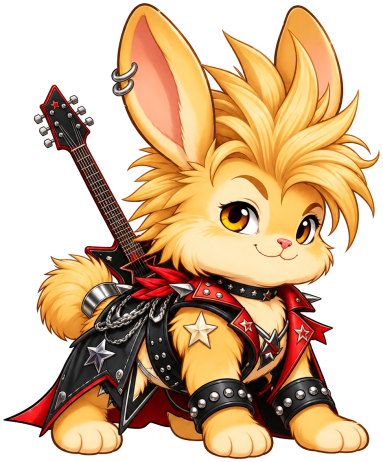
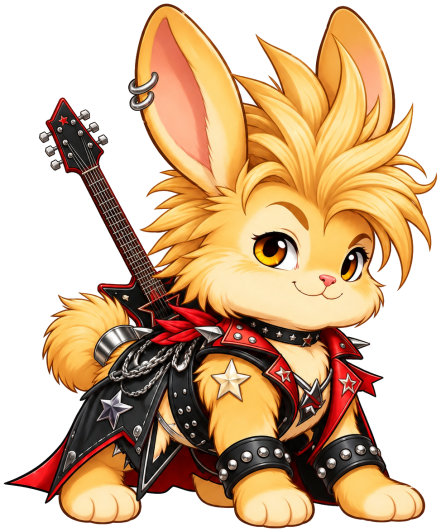
Retours iPhone (lot A1) : tailles, zoom, défi parent, fin des fêtes et découvertes
- Lapins évolués 20 % plus grands (pixels inchangés, dessinés à l'échelle) ;
  Roukette de base +15 %, Roukette évoluée recalculée sur cette taille.
- Zoom maximum 2,2 ; voile de la nurserie dérivé en 224 px pour rester net.
- Défi « Devenir parent d'un lapereau » ; plus de mention « corde à venir ».
- Suppression de la page Rendez-vous (fêtes du mois et petites découvertes)
  partout ; les souvenirs déjà gagnés restent dans l'album.

diff --git a/src/ui/GameUI.ts b/src/ui/GameUI.ts
@@ -1,7 +1,7 @@
 import {farmLimit, farmDuration} from '../config/balance';
 import {bestFriend} from '../simulation/cozy';
-import {DECORATION_COLLECTIONS,TRAVEL_STORIES,COZY_EVENTS,DISCOVERIES,currentCozyEvent,currentDiscovery} from '../config/cozyContent';
-import {discoveryAvailable,translatedDecorations} from '../simulation/cozyActivities';
+import {DECORATION_COLLECTIONS,TRAVEL_STORIES} from '../config/cozyContent';
+import {translatedDecorations} from '../simulation/cozyActivities';
 import {rabbitDropTargets} from './rabbitDropTargets';
 import {showLegendaryReveal, type RevealText} from './legendaryReveal';
 import {showBennyReveal} from './bennyReveal';
@@ -78,10 +78,10 @@ import {guidedStep, type GuideStep} from './guidance';
 import {BUILDING_NAMES, CARE_NAMES, REFUSALS, RARITY_NAMES, busyReason, TYPE_NAMES, typeNames, recipeBook, recipePairs, buildingReason, collectionSpeciesView, collectionView, incomeWhole, moneyReason, nurseryView, occupants, oddsTexts, oddsView, placementReason, rabbitAvailability, parentBusy, releaseReason, timeLeft, type Placement, type CollectionFilter} from './models';
 
 type ShopTab = 'home' | 'recipes' | 'rabbits' | 'habitats' | 'buildings' | 'decorations';
-type View = {kind:'album'|'cozyEvents'|'decorationGroup'} | {kind: 'welcomeBaby'; birthId: string} | {kind:'levelRequirement';target:LevelAccessTarget} | {kind: 'missions'; tab: 'main' | 'daily'} | {kind: 'shop'; tab: ShopTab} | {kind: 'building' | 'rabbit' | 'moveRabbit' | 'decoration'; id: string} | {kind: 'jumpIsland'} |
+type View = {kind:'album'|'decorationGroup'} | {kind: 'welcomeBaby'; birthId: string} | {kind:'levelRequirement';target:LevelAccessTarget} | {kind: 'missions'; tab: 'main' | 'daily'} | {kind: 'shop'; tab: ShopTab} | {kind: 'building' | 'rabbit' | 'moveRabbit' | 'decoration'; id: string} | {kind: 'jumpIsland'} |
   {kind: 'buyRabbit' | 'species'; species: SpeciesId} | {kind:'extension';parcelId?:ParcelId} | {kind: 'cuisineRabbit'; commis?: string} | {kind: 'collection' | 'settings' | 'placement' | 'hearts' | 'recipes' | 'arrange' | 'decorationPlacement'} | null;
 /** Views drawn as a centred card over the dimmed meadow. Placement, purchase, extension and arrangement views keep the side sheet: they need the island visible. */
-const CENTER_CARD_VIEWS: readonly NonNullable<View>['kind'][] = ['album','cozyEvents','decorationGroup','rabbit', 'moveRabbit', 'welcomeBaby', 'building', 'jumpIsland', 'missions', 'collection', 'recipes', 'hearts', 'species', 'levelRequirement'];
+const CENTER_CARD_VIEWS: readonly NonNullable<View>['kind'][] = ['album','decorationGroup','rabbit', 'moveRabbit', 'welcomeBaby', 'building', 'jumpIsland', 'missions', 'collection', 'recipes', 'hearts', 'species', 'levelRequirement'];
 function node<K extends keyof HTMLElementTagNameMap>(tag: K, text = '', className = ''): HTMLElementTagNameMap[K] {
   const element = document.createElement(tag); setCurrencyText(element, text); decorateRabbitText(element); element.className = className; return element;
 }
@@ -631,7 +631,6 @@ export class GameUI {
     if (this.cuisine.active || this.pailleDialogue.element.open) return;
     if (this.photo || this.view?.kind === 'shop') return;
     if (this.dialog.open || (document.getElementById('import-dialog') as HTMLDialogElement).open) return;
-    if(selection.kind==='discovery'){this.discover(selection.id);return;}
     if (this.movingRabbit) {
       if (selection.kind === 'building') this.dropRabbit(this.movingRabbit, selection.id);
       return;
@@ -716,7 +715,6 @@ export class GameUI {
     const s = this.snapshot.state; if (!s) { this.title.textContent = 'Partie indisponible'; return; }
     switch (this.view.kind) {
       case 'album': this.renderAlbum(s);break;
-      case 'cozyEvents': this.renderCozyEvents(s);break;
       case 'decorationGroup': this.renderDecorationGroup(s);break;
       case 'cuisineRabbit': this.renderCuisineRabbits(s, this.view.commis); break;
       case 'missions': this.renderMissions(s, this.view.tab); break;
@@ -888,10 +886,8 @@ export class GameUI {
     const card = this.card(DECORATIONS[id].name, description), icon = node('span', '', 'decoration-icon');
     const img = document.createElement('img'); img.src = decorationUrl(id); img.alt = DECORATIONS[id].name; icon.append(img); card.querySelector('.card-heading')!.prepend(icon); return card;
   }
-  public discover(id:string):void { this.execute({type:'claimDiscovery',id},'Un souvenir ajouté à ton album.'); }
   private renderAlbum(s:GameState):void {
     this.title.textContent='Album et souvenirs';
-    this.button(this.content,'Rendez-vous et découvertes',()=>this.open({kind:'cozyEvents'}),null,true);
     this.button(this.content,'Prendre une photo',()=>{this.close();this.setPhoto(true);},null,true);
     this.content.append(node('h3','Tes moments partagés'));
     const memories=[...(s.cozy?.album??[])].reverse();
@@ -902,19 +898,6 @@ export class GameUI {
       const card=this.card(destination,`${Math.min(3,visits)}/3 souvenirs · ${visits} visite${visits>1?'s':''}`);
       TRAVEL_STORIES[destination].forEach((story,i)=>card.append(node('p',visits>i?story:`Souvenir ${i+1} · à découvrir lors d’un retour de voyage`,'small')));this.content.append(card);
     }
-  }
-  private renderCozyEvents(s:GameState):void {
-    this.title.textContent='Rendez-vous de la prairie';const active=currentCozyEvent(this.now());
-    this.content.append(node('p','Les thèmes reviennent tous les trois mois. Tes progrès restent acquis, même quand tu fais une pause.'));
-    for(const event of COZY_EVENTS){const progress=s.cozy?.events.find(p=>p.id===event.id);const card=this.card(event.name,event.description);
-      card.append(node('p',`${progress?.progress??0}/${event.target} · ${progress?.completed?'Carte obtenue':active.id===event.id?'En ce moment':'De retour bientôt'}`,'badge'));this.content.append(card);}
-    this.content.append(node('h3','Petites découvertes'));
-    const current=currentDiscovery(this.now());
-    this.content.append(node('p','Une petite surprise change toutes les quatre heures. Retrouve-la dans la prairie, ou découvre-la ici. Chaque souvenir reste dans ta collection.','small'));
-    for(const d of DISCOVERIES){const found=s.cozy?.discoveries.includes(d.id);const card=this.decorationCard(d.art,found?d.text:d.id===current.id?'Une surprise t’attend maintenant.':'Cette découverte reviendra.');
-      card.querySelector('h3')!.textContent=d.name;
-      if(discoveryAvailable(s,this.now(),d.id))this.button(card,'Observer',()=>this.discover(d.id));else card.append(node('p',found?'Souvenir découvert':'À retrouver','small'));this.content.append(card);}
-    this.button(this.content,'Ouvrir l’album',()=>this.open({kind:'album'}),null,true);
   }
   private renderDecorationGroup(s:GameState):void {
     this.title.textContent='Déplacer un ensemble';
@@ -1391,14 +1374,13 @@ export class GameUI {
         if (challenge === 'voyage') label = target === 1 ? 'voyage' : 'voyages';
         else if (challenge === 'soin') label = target === 1 ? 'soin' : 'soins';
         else if (challenge === 'piquenique') label = target === 1 ? 'pique-nique' : 'pique-niques';
-        else if (challenge === 'parent') label = target === 1 ? 'lapereau comme parent' : 'lapereaux comme parent';
+        else if (challenge === 'parent') label = `${evolutionChallengeLabel(challenge)} \u00b7 ${value} / ${target}`;
         else if (challenge.startsWith('cuisine:')) {
           const recipe = challenge === 'cuisine:chicken' ? 'le poulet' : challenge === 'cuisine:moelleux' ? 'le moelleux' : 'l’avocado toast';
           label = `${target === 1 ? 'recette' : 'recettes'} : ${recipe}`;
         } else if (challenge.startsWith('corde:')) label = `${target === 1 ? 'manche' : 'manches'} de corde à sauter (au moins ${challenge.slice(6)} sauts)`;
         const li = node('li', '', value >= target ? 'is-complete' : '');
-        li.append(node('span', `${value} / ${target} ${label}`));
-        if (challenge.startsWith('corde:')) li.append(node('small', 'Le défi sera jouable quand la corde à sauter sera ajoutée.'));
+        li.append(node('span', challenge === 'parent' ? label : `${value} / ${target} ${label}`));
         list.append(li);
       }
       section.append(list);
@@ -2173,7 +2155,6 @@ export class GameUI {
     }
     if (tab === 'main' && s.missions.claimed.includes('first-birth')) this.button(tabs, 'Consulter le carnet', () => this.open({kind: 'recipes'}), null, true);
     tabs.classList.add('mission-tabs');
-    this.button(tabs,'Rendez-vous',()=>this.open({kind:'cozyEvents'}),null,true);
     this.content.append(tabs);
     const claim = (card: HTMLElement, command: Command, reward: Reward, ready: boolean, claimed: boolean, extraRewards: readonly Reward[] = []) => {
       const stage = claimed ? 'Réclamée' : ready ? 'À réclamer' : 'En cours';

diff --git a/src/display/MeadowScene.ts b/src/display/MeadowScene.ts
@@ -21,8 +21,6 @@ import {RabbitLife} from './rabbitLife';
 import {RabbitLifeViews} from './rabbitLifeViews';
 import {CozyInteraction, type InteractionKind} from './cozyInteraction';
 import {bestFriend} from '../simulation/cozy';
-import {currentDiscovery} from '../config/cozyContent';
-import {discoveryAvailable} from '../simulation/cozyActivities';
 import Phaser from 'phaser';
 import {VISUAL} from '../config/visual';
 import {shouldShowIncomeBubble} from './incomeBubble';
@@ -86,7 +84,7 @@ import {MagicienClock, type MagicienAct} from './magicienTimeline';
 import {CHASE_EVENT, RabbitChases, type ChaseRunner} from './rabbitChase';
 
 /** `nurseryBubble`: the « Prêt ! » bubble (id: the nursery). `nurseryBaby`: a ready baby touched on its cushion (id: its birthId). */
-export type MeadowSelection = {kind: 'jumpIsland'} | {kind: 'building' | 'rabbit' | 'income' | 'grass' | 'decoration' | 'birth' | 'discovery' | 'nurseryBubble' | 'nurseryBaby'; id: string} | {kind: 'cell' | 'fineCell'; x: number; y: number} | {kind: 'extension'; parcelId?: ParcelId} | {kind: 'empty'};
+export type MeadowSelection = {kind: 'jumpIsland'} | {kind: 'building' | 'rabbit' | 'income' | 'grass' | 'decoration' | 'birth' | 'nurseryBubble' | 'nurseryBaby'; id: string} | {kind: 'cell' | 'fineCell'; x: number; y: number} | {kind: 'extension'; parcelId?: ParcelId} | {kind: 'empty'};
 export interface DecorationGhost {id: string; catalogId?: DecorationId; location: DecorationLocation | null}
 /** `object` is the ground point (position, depth, scale); `body` carries the hop height, squash and mirror, apart from the shadow. */
 interface VisualRabbit {id: string; object: Phaser.GameObjects.Container; body: Phaser.GameObjects.Container; ears: Phaser.GameObjects.Ellipse[]; sprite?: Phaser.GameObjects.Image; art?: RabbitArt; base: Point; phase: number; fedUntil: number;
@@ -141,10 +139,6 @@ export class MeadowScene extends Phaser.Scene {
   private cozyInteraction = new CozyInteraction();
   private friends = new Map<string,string|null>();
   private interactionIn = 45000;
-  private discoveryImage: Phaser.GameObjects.Image | null = null;
-  private discoveryId = '';
-  private discoveryLocation: DecorationLocation | null = null;
-  private discoveryUpdatedAt = -Infinity;
   private lifeViews: RabbitLifeViews | null = null;
   private lifeGeneration: number | null = null;
   private pivots = new Map<string, Point>();
@@ -251,8 +245,7 @@ export class MeadowScene extends Phaser.Scene {
     this.lifeViews = new RabbitLifeViews(this);
     this.unsubscribe = this.controller.subscribe(snapshot => {
       if (this.lifeGeneration !== snapshot.generation) {
-        this.cozyInteraction.reset(); this.interactionIn = 45000; this.discoveryUpdatedAt = -Infinity;
-        this.discoveryImage?.destroy(); this.discoveryImage = null;
+        this.cozyInteraction.reset(); this.interactionIn = 45000;
         this.failedArt.clear();
         this.life.reset(); this.lifeViews?.begin([]); this.motions.clear(); this.layoutKey = '';
         this.lifeGeneration = snapshot.generation;
@@ -293,7 +286,7 @@ export class MeadowScene extends Phaser.Scene {
     window.addEventListener(CHASE_EVENT, chaseTest);
     this.events.once('shutdown', () => {
       stopCommands(); this.dadi.reset(); this.dadiSpeech?.destroy(); this.dadiSpeech = null;
-      this.cozyInteraction.reset(); this.discoveryImage?.destroy(); this.discoveryImage = null;
+      this.cozyInteraction.reset();
       this.chases.reset(); this.life.reset(); this.lifeViews?.destroy(); this.lifeViews = null;
       document.removeEventListener('visibilitychange', dadiVisibility); window.removeEventListener('pagehide', clearDadi);
       window.removeEventListener(LEGENDARY_TEST_EVENT, legendaryTest); window.removeEventListener(MAGICIEN_TEST_EVENT,magicienTest); window.removeEventListener(BENNY_TEST_EVENT, bennyTest); window.removeEventListener(BENNY_FLIGHT_TEST_EVENT, flightTest); window.removeEventListener(CHASE_EVENT, chaseTest);
@@ -394,29 +387,6 @@ export class MeadowScene extends Phaser.Scene {
     const rabbit = candidates[0]; if (!rabbit?.motion) return false;
     this.life.interrupt(rabbit.id);
     return this.cozyInteraction.start(rabbit.id,id,rabbit.motion,{x:point.x-rabbit.center.x,y:point.y-rabbit.center.y},kind);
-  }
-  private syncDiscovery(): void {
-    const s = this.current, now = this.simulationNow(), discovery = currentDiscovery(now);
-    this.discoveryUpdatedAt = this.time.now;
-    if (!s || !discoveryAvailable(s,now,discovery.id)) { this.discoveryImage?.destroy(); this.discoveryImage=null; return; }
-    if(this.discoveryImage&&this.discoveryLocation&&catalogDecorationPlacementReason(s,discovery.art,this.discoveryLocation)){this.discoveryImage.destroy();this.discoveryImage=null;}
-    if (this.discoveryId !== discovery.id) { this.discoveryImage?.destroy(); this.discoveryImage=null; this.discoveryId=discovery.id; }
-    if (!this.discoveryImage) {
-      const texture=decorationTexture(discovery.art);
-      if (!this.textures.exists(texture)) { this.ensureArt(); return; }
-      let point: Point | null=null;
-      for (const parcelId of s.acquiredParcels) {
-        const parcel=PARCELS[parcelId];
-        for(let y=parcel.y*FINE_GRID+1;y<(parcel.y+ISLAND.parcelCells)*FINE_GRID-2&&!point;y+=2)
-          for(let x=parcel.x*FINE_GRID+1;x<(parcel.x+ISLAND.parcelCells)*FINE_GRID-2&&!point;x+=2) {
-            const location={kind:'outside' as const,x,y,rotation:0 as const};
-            if(!catalogDecorationPlacementReason(s,discovery.art,location)) { point=this.decorationPoint(location,discovery.art); this.discoveryLocation=location; }
-          }
-        if(point)break;
-      }
-      if(point) { this.discoveryImage=this.add.image(point.x,point.y,texture).setDepth(1.8); this.discoveryImage.setDisplaySize(36,36*this.discoveryImage.height/this.discoveryImage.width); }
-    }
-    this.discoveryImage?.setVisible(!this.photo&&!this.arrangement&&!this.placement&&!this.expanding);
   }
   /** CSS-pixel chrome measured from the DOM; the same reading is reproduced by the browser checks. */
   private screenChrome(): ScreenChrome {
@@ -666,7 +636,6 @@ export class MeadowScene extends Phaser.Scene {
       if (rotation) add({texture: decorationTexture(id, rotation), url: decorationUrl(id)});
     };
     for (const d of state?.decorations ?? []) if (d.location.kind === 'outside') decoration(d.catalogId, d.location.rotation);
-    if (state) { const discovery=currentDiscovery(state.lastSimulatedAt); if(discoveryAvailable(state,state.lastSimulatedAt,discovery.id)) decoration(discovery.art,0); }
     const ghost = state?.decorations.find(d => d.id === this.ghost?.id)?.catalogId ?? this.ghost?.catalogId;
     if (ghost && this.ghost?.location?.kind === 'outside') decoration(ghost, this.ghost.location.rotation);
     return [...assets.values()];
@@ -1183,10 +1152,6 @@ export class MeadowScene extends Phaser.Scene {
     // Cells are read on the ground plane; rabbits, bubbles and decorations are hit where they are drawn.
     const world = this.view.world(screen), ground = toGround(world), cell = gridCell(ground);
     if (this.photo) return;
-    if (this.discoveryImage?.visible && !this.placement && !this.arrangement && !this.rabbitDrops && !this.purchase && !this.expanding) {
-      const p=this.view.screen({x:this.discoveryImage.x,y:this.discoveryImage.y});
-      if(Math.abs(p.x-screen.x)<=24&&Math.abs(p.y-screen.y)<=24){this.select({kind:'discovery',id:this.discoveryId});return;}
-    }
     if (this.rabbitDrops) {
       const arrow = this.dropHits.find(h => Math.abs(world.x-h.point.x)*this.view.zoom <= 22 && Math.abs(world.y-h.point.y)*this.view.zoom <= 22);
       const b = this.current ? buildingAt(this.current, fineCell(ground)) : null;
@@ -1281,7 +1246,6 @@ export class MeadowScene extends Phaser.Scene {
     this.progressUpdatedAt = this.time.now;
   }
   update(time: number): void {
-    if (this.time.now-this.discoveryUpdatedAt>=1000) this.syncDiscovery();
     this.drawRabbitDrops(time);
     this.placeTutorialHand(time);
     if (this.time.now - this.progressUpdatedAt >= 100) this.syncProgressBars();

diff --git a/src/config/species.ts b/src/config/species.ts
@@ -58,7 +58,7 @@ const REGISTRY = [
   {id: 'fluffy', name: 'Fluffy', description: 'Un lapin blanc à l’allure de peluche, tenant une rose dans ses pattes.', types: ['metal', 'neige'], rarity: 'rare', acquisition: [{kind: 'recipe', guaranteeEligible: true, requiredTypes: ['metal', 'neige'], minAffection: 2}], art: {kind: 'static-sprite', file: 'assets/rabbits/fluffy/fluffy-v1.png', texture: 'rabbit-fluffy-original-v1', width: 459, height: 428, worldWidth: 52, groundY: 13.5, preloadOrder: 13}, progression: {unlockLevel: 1}},
   {id: 'virvoletant', name: 'Virvoletant', description: 'Un lapin tout rond, composé de brindilles comme un virevoltant du Far West.', types: ['paille', 'vol'], rarity: 'rare', acquisition: [{kind: 'recipe', guaranteeEligible: true, requiredTypes: ['paille', 'vol'], minAffection: 2}], art: {kind: 'static-sprite', file: 'assets/rabbits/virvoletant/virvoletant-v1.png', texture: 'rabbit-virvoletant-original-v1', width: 428, height: 428, worldWidth: 52, groundY: 12.5, preloadOrder: 14}, progression: {unlockLevel: 1}},
   {id: 'phoenix', name: 'Phoenix', description: 'Un lapin ailé aux couleurs flamboyantes d’un phénix.', types: ['feu', 'vol'], rarity: 'rare', acquisition: [{kind: 'recipe', guaranteeEligible: true, requiredTypes: ['feu', 'vol'], minAffection: 2}], art: {kind: 'static-sprite', file: 'assets/rabbits/phoenix/phoenix-v1.png', texture: 'rabbit-phoenix-original-v1', width: 428, height: 428, worldWidth: 54, groundY: 14.5, preloadOrder: 15}, progression: {unlockLevel: 1}},
-  {id: 'roukette', name: 'Roukette', description: 'Un lapin doré à la coiffure ébouriffée, portant des accessoires noirs et métalliques.', types: ['paille', 'metal'], rarity: 'rare', acquisition: [{kind: 'recipe', guaranteeEligible: true, requiredTypes: ['paille', 'metal'], minAffection: 2}], art: {kind: 'static-sprite', file: 'assets/rabbits/roukette/roukette-v1.png', texture: 'rabbit-roukette-original-v1', width: 461, height: 421, worldWidth: 52, groundY: 12, preloadOrder: 16}, progression: {unlockLevel: 1}},
+  {id: 'roukette', name: 'Roukette', description: 'Un lapin doré à la coiffure ébouriffée, portant des accessoires noirs et métalliques.', types: ['paille', 'metal'], rarity: 'rare', acquisition: [{kind: 'recipe', guaranteeEligible: true, requiredTypes: ['paille', 'metal'], minAffection: 2}], art: {kind: 'static-sprite', file: 'assets/rabbits/roukette/roukette-v1.png', texture: 'rabbit-roukette-original-v1', width: 461, height: 421, worldWidth: 59.8, groundY: 12, preloadOrder: 16}, progression: {unlockLevel: 1}},
   {id: 'wat-wat', name: 'Wat Wat', description: 'Un lapin bleu aux motifs ondoyants, avec une touche dorée sur le poitrail.', types: ['neige', 'feu'], rarity: 'rare', acquisition: [{kind: 'recipe', guaranteeEligible: true, requiredTypes: ['neige', 'feu'], minAffection: 2}], art: {kind: 'static-sprite', file: 'assets/rabbits/wat-wat/wat-wat-v1.png', texture: 'rabbit-wat-wat-original-v1', width: 428, height: 428, worldWidth: 52, groundY: 15, preloadOrder: 17}, progression: {unlockLevel: 1}},
   {id: 'glassofeu', name: 'Glassofeu', description: 'Un lapin blanc mêlant flammes et cristaux de glace, avec un œil de feu et un œil glacé.', types: ['feu', 'neige'], rarity: 'rare', acquisition: [{kind: 'recipe', guaranteeEligible: true, requiredTypes: ['feu', 'neige'], minAffection: 2}], art: {kind: 'static-sprite', file: 'assets/rabbits/glassofeu/glassofeu-v1.png', texture: 'rabbit-glassofeu-original-v1', width: 461, height: 421, worldWidth: 52, groundY: 12, preloadOrder: 18, facing: 'left'}, progression: {unlockLevel: 1}},
   {id: 'plume', name: 'Plume', description: 'Un lapin doré au pelage léger, avec de longues oreilles en forme de plumes.', types: ['vol', 'paille'], rarity: 'rare', acquisition: [{kind: 'recipe', guaranteeEligible: true, requiredTypes: ['vol', 'paille'], minAffection: 2}], art: {kind: 'static-sprite', file: 'assets/rabbits/plume/plume-v1.png', texture: 'rabbit-plume-original-v1', width: 461, height: 421, worldWidth: 52, groundY: 12.5, preloadOrder: 19}, progression: {unlockLevel: 1}},

diff --git a/tests/rabbit-art-fixtures.ts b/tests/rabbit-art-fixtures.ts
@@ -42,7 +42,7 @@ export const NEW_RARES: readonly RareSheet[] = [
[8 lines of base64/hex data omitted]

diff --git a/tests/evolution-forest.test.ts b/tests/evolution-forest.test.ts
@@ -78,25 +78,26 @@ describe('Evolved drawings at affection 30', () => {
       expect(artForRabbit({species, affection: 40, classicLook: true})).toBe(rabbitArt(species));
     }
   });
-  it('an evolved rabbit is drawn 15 % bigger, in code, keeping its picture and facing', () => {
-    expect(EVOLVED_SCALE).toBe(1.15);
+  it('an evolved rabbit is drawn 20 % bigger, in code, keeping its picture and facing', () => {
+    expect(EVOLVED_SCALE).toBe(1.2);
     for (const entry of EVOLVED_ART) {
       const art = evolvedRabbitArt(entry.id)!, v1 = rabbitArt(entry.id)!;
-      expect(art.worldWidth).toBeCloseTo(entry.worldWidth * 1.15, 10);
+      expect(art.worldWidth).toBeCloseTo(entry.worldWidth * 1.2, 10);
       expect(art.width).toBe(entry.width); expect(art.height).toBe(entry.height);
       expect(art.facing).toBe(v1.facing); expect(art.groundY).toBe(v1.groundY);
       expect(art.texture).not.toBe(v1.texture);
       // The manifest world width keeps the v1's drawn area within 5 %: only EVOLVED_SCALE makes the evolution bigger.
       const area = (a: {worldWidth: number; width: number; height: number}) => a.worldWidth * a.worldWidth * a.height / a.width;
       expect(Math.abs(area(entry) / area(v1) - 1)).toBeLessThan(.05);
-      expect(area(art) / area(v1)).toBeGreaterThan(1.15 * 1.15 * .95);
+      expect(area(art) / area(v1)).toBeGreaterThan(1.2 * 1.2 * .95);
     }
   });
-  it('the manifest lists every evolved picture, its master and the 15 % scale; the files exist and match', () => {
+  it('the manifest lists every evolved picture, its master and the scale its pixels were sized for; the files exist and match', () => {
     const manifest = JSON.parse(readFileSync('scripts/rabbit-art-manifest.json', 'utf8'));
     for (const entry of EVOLVED_ART) {
       const m = manifest[`${entry.id}-evolution`];
-      expect(m).toMatchObject({species: entry.id, registry: 'src/config/evolvedArt.ts', displayScale: EVOLVED_SCALE, file: entry.file,
+      // Pixels sized for the former 15 % (legendary layers and the wand tip are in v2 pixels); drawn 20 % bigger since 4 November 2026.
+      expect(m).toMatchObject({species: entry.id, registry: 'src/config/evolvedArt.ts', displayScale: 1.15, file: entry.file,
         worldWidth: entry.worldWidth, width: entry.width, height: entry.height, master: `assets-source/rabbits/${entry.id}/${entry.id}-evolution-sprite.png`});
       expect(existsSync(`assets-source/rabbits/${entry.id}/${entry.id}-evolution-source.png`)).toBe(true);
       const png = decodePng(readFileSync(`public/${entry.file}`));

diff --git a/tests/cozy-activities.test.ts b/tests/cozy-activities.test.ts
@@ -1,24 +1,8 @@
 import {expect,it} from 'vitest';
 import {regressionStart} from './regression-start';
 import {act} from '../src/simulation/actions';
-import {advanceCozyEvent,translatedDecorations} from '../src/simulation/cozyActivities';
-import {currentDiscovery} from '../src/config/cozyContent';
-import {decodeGame,encodeGame} from '../src/persistence/json';
+import {translatedDecorations} from '../src/simulation/cozyActivities';
 
-it('claims only the current surprise once, preserving resources and surviving reload',()=>{
- const s=regressionStart(0),id=currentDiscovery(0).id;
- expect(act(s,{type:'claimDiscovery',id:'unknown'},0).ok).toBe(false);
- const result=act(s,{type:'claimDiscovery',id},0);expect(result.ok).toBe(true);if(!result.ok)return;
- expect([result.state.pattes,result.state.grass,result.state.hearts]).toEqual([s.pattes,s.grass,s.hearts]);
- expect(act(result.state,{type:'claimDiscovery',id},0).ok).toBe(false);
- const loaded=decodeGame(encodeGame(result.state));expect(loaded.ok).toBe(true);if(loaded.ok)expect(act(loaded.state,{type:'claimDiscovery',id},24*3600000).ok).toBe(false);
-});
-it('keeps event progress between monthly returns and awards exactly one memory',()=>{
- const s=regressionStart(0);for(let i=0;i<3;i++)advanceCozyEvent(s,{type:'collectOrder',id:'farm'},Date.UTC(2026,0,1));
- advanceCozyEvent(s,{type:'collectOrder',id:'farm'},Date.UTC(2026,1,1));expect(s.cozy!.events[0].progress).toBe(3);
- for(let i=0;i<10;i++)advanceCozyEvent(s,{type:'collectOrder',id:'farm'},Date.UTC(2026,3,1));
- expect(s.cozy!.events[0]).toEqual({id:'harvest',progress:6,completed:true});expect(s.cozy!.album).toHaveLength(1);
-});
 it('translates groups atomically, rejects overlap and preserves resources',()=>{
  const s=regressionStart(0);s.decorations=[{id:'decoration-100',catalogId:'dirt-path',location:{kind:'outside',x:24,y:26,rotation:0}},{id:'decoration-101',catalogId:'dirt-path',location:{kind:'outside',x:25,y:26,rotation:0}},{id:'decoration-102',catalogId:'dirt-path',location:{kind:'outside',x:27,y:26,rotation:0}}];s.nextId=103;
  // Use the existing initial land geometry; choose a valid translation programmatically.

diff --git a/src/persistence/json.ts b/src/persistence/json.ts
@@ -106,9 +106,7 @@ const current = z.object({
     bonds: z.array(z.object({a: identity,b: identity,duration: integer.max(6*HOUR),celebrated:z.boolean()}).strict()).max(512),
     album: z.array(z.object({key:z.string().min(1).max(200),at:integer,kind:z.enum(['birth','friendship','travel','discovery','event']),text:z.string().max(300)}).strict()).max(80),
     souvenirs:z.array(z.object({destination:z.enum(TRAVEL.destinations),visits:integer.max(9999)}).strict()).max(TRAVEL.destinations.length),
-    discoveries:z.array(z.string().min(1).max(100)).max(64),
-    events:z.array(z.object({id:z.string().min(1).max(100),progress:integer.max(10000),completed:z.boolean()}).strict()).max(24),
-  }).strict().optional(),
+  }).optional(),
   version: z.literal(SAVE_VERSION), lastSimulatedAt: integer, nextId: integer.positive(), pattes: integer, grass: integer, hearts: integer, nextHeartGiftAt: timestamp,
   buildings: z.array(building).max(ISLAND.maxArea),
   rabbits: z.array(rabbit).max(ISLAND.maxArea * HABITAT_LEVELS.universal[2].capacity),
@@ -143,7 +141,7 @@ const schema = current.superRefine((s, context) => {
   if (s.cozy) {
     const c=s.cozy;
     if (new Set(c.bonds.map(b=>`${b.a}:${b.b}`)).size!==c.bonds.length || c.bonds.some(b=>b.a>=b.b || b.celebrated && b.duration<6*HOUR)) issue('Invalid friendship');
-    if (new Set(c.album.map(m=>m.key)).size!==c.album.length || new Set(c.souvenirs.map(m=>m.destination)).size!==c.souvenirs.length || new Set(c.discoveries).size!==c.discoveries.length || new Set(c.events.map(e=>e.id)).size!==c.events.length) issue('Duplicate cozy entry');
+    if (new Set(c.album.map(m=>m.key)).size!==c.album.length || new Set(c.souvenirs.map(m=>m.destination)).size!==c.souvenirs.length) issue('Duplicate cozy entry');
   }
   if (new Set(s.recipeBook).size !== s.recipeBook.length || s.recipeBook.some(id => !RECIPE_BOOK_SPECIES.includes(id))) issue('Invalid recipe book');
   if (s.decorations.some(d => d.placementXpProcessed === false && d.location.kind !== 'inventory')) issue('Unused placement XP on a placed decoration');

diff --git a/src/simulation/cozyActivities.ts b/src/simulation/cozyActivities.ts
@@ -1,21 +1,5 @@
-import {COZY_EVENTS,currentCozyEvent,currentDiscovery} from '../config/cozyContent';
-import type {Command,GameState,Refusal} from '../state/types';
-import {cozyState,recordMemory} from './cozy';
+import type {GameState,Refusal} from '../state/types';
 import {decorationPlacementReason} from './decorations';
-export function discoveryAvailable(s:GameState,now:number,id:string):boolean {return currentDiscovery(now).id===id && !(s.cozy?.discoveries.includes(id));}
-export function claimDiscovery(s:GameState,now:number,id:string):boolean {
- if(!discoveryAvailable(s,now,id))return false;const d=currentDiscovery(now);cozyState(s).discoveries.push(id);
- recordMemory(s,{key:`discovery:${id}`,at:now,kind:'discovery',text:`${d.name} : ${d.text}`});return true;
-}
-export function advanceCozyEvent(s:GameState,command:Command,now:number):void {
- const event=currentCozyEvent(now);
- const matches=event.id==='welcome' ? command.type==='welcome'||command.type==='claimTrip' : command.type===event.action;
- if(!matches)return;
- const c=cozyState(s);let p=c.events.find(e=>e.id===event.id);
- if(!p){p={id:event.id,progress:0,completed:false};c.events.push(p);}if(p.completed)return;
- p.progress=Math.min(event.target,p.progress+1);
- if(p.progress===event.target){p.completed=true;recordMemory(s,{key:`event:${event.id}`,at:now,kind:'event',text:`${event.name} : ta carte souvenir est complète !`});}
-}
 /** Validate the entire translated group on a detached state, including mutual footprints. */
 export function translatedDecorations(s:GameState,ids:readonly string[],dx:number,dy:number):{reason:Refusal|null;decorations:GameState['decorations']} {
  const invalid=()=>({reason:'INVALID_CHOICE' as const,decorations:s.decorations});
@@ -26,4 +10,3 @@ export function translatedDecorations(s:GameState,ids:readonly string[],dx:numbe
  for(const d of moved){const reason=decorationPlacementReason(draft,d.id,d.location);if(reason)return{reason,decorations:s.decorations};}
  return{reason:null,decorations:draft.decorations};
 }
-export {COZY_EVENTS};

diff --git a/src/simulation/actions.ts b/src/simulation/actions.ts
@@ -1,6 +1,6 @@
 import {foodXp, firstDecorationPlacementXp, missionClaimXp} from './progression';
 import {rememberBirth, rememberTrip} from './cozy';
-import {claimDiscovery,advanceCozyEvent,translatedDecorations} from './cozyActivities';
+import {translatedDecorations} from './cozyActivities';
 import {PROGRESSION} from '../config/progression';
 import {CUISINE_REWARDS, CUISINE_TIP, CUISINE_FULL_REWARDS_PER_CYCLE} from '../config/balance';
 import {applyProgressionGain} from './progressionRewards';
@@ -117,7 +117,6 @@ function runAction(state: GameState, requested: Command, now: number, rng: () =>
   };
   try {
     switch (command.type) {
-      case 'claimDiscovery': requireRule(claimDiscovery(s,time,command.id),'STALE_ACTION'); break;
       case 'translateDecorations': {
         const moved=translatedDecorations(s,command.ids,command.dx,command.dy);requireRule(!moved.reason,moved.reason ?? 'INVALID_CHOICE');s.decorations=moved.decorations;break;
       }
@@ -602,7 +601,6 @@ function runAction(state: GameState, requested: Command, now: number, rng: () =>
     requireRule(recordMissionAction(s, 'gainAffection', affectionGained), 'RESOURCE_LIMIT');
     requireRule(recordMissionAction(s, command.type === 'buyDecoration' && command.location ? 'placeDecoration' : command.type, ['feed', 'breed', 'welcome'].includes(command.type) || command.type === 'placeDecoration' || (command.type === 'buyDecoration' && !!command.location) ? 1 : typeof value === 'number' ? value : 0, command.type !== 'placeDecoration' || command.location.kind === 'outside'), 'RESOURCE_LIMIT');
     // In particular, a welcome frees the nursery at this action's timestamp.
-    advanceCozyEvent(s,command,time);
     return {ok: true, state: advance(s, time), ...(value === undefined ? {} : {value}), ...(progressionGain ? {progressionGain} : {}), ...(cuisineReward ? {cuisineReward} : {}), ...(jumpRopeResult ? {jumpRopeReward: jumpRopeResult} : {})};
   } catch (error) {
     if (error instanceof Quoted) return {ok: true, state, value: error.price};

diff --git a/src/config/cozyContent.ts b/src/config/cozyContent.ts
@@ -17,18 +17,3 @@ export const TRAVEL_STORIES: Record<Destination,readonly [string,string,string]>
  Paris:['Un ticket de métro soigneusement plié.','Un dessin de la tour aperçue au loin.','Un souvenir de pique-nique au bord de l’eau.'],
  Marrakech:['Un ruban aux couleurs du marché.','Un dessin des jardins au petit matin.','Une carte parfumée à la menthe.'],
 };
-export const COZY_EVENTS = [
- {id:'harvest',name:'Fête des récoltes',description:'Récolte six cultures pour garder la carte du grand goûter.',action:'collectOrder',target:6},
- {id:'welcome',name:'Saison des retrouvailles',description:'Accueille trois lapereaux ou retours de voyage pour compléter la carte des retrouvailles.',action:'welcome',target:3},
- {id:'garden',name:'Jardin en fête',description:'Acquiers trois nouveaux objets pour garder la carte du jardin en fête.',action:'buyDecoration',target:3},
-] as const;
-export const DISCOVERIES = [
- {id:'lost-slippers',name:'Les chaussons égarés',text:'Quelqu’un est reparti pieds nus après sa sieste…',art:'bunny-slippers'},
- {id:'forgotten-book',name:'Le livre oublié',text:'Une page est cornée : l’histoire reprendra demain.',art:'small-bookcase'},
- {id:'little-feast',name:'Le goûter secret',text:'Il reste juste assez de miel pour un dernier invité.',art:'honey-pot'},
- {id:'sleepy-plush',name:'La peluche voyageuse',text:'Elle aussi avait envie de voir un autre coin de prairie.',art:'otter-plush'},
- {id:'birthday-wish',name:'Un vœu discret',text:'Une petite bougie attend quelqu’un à célébrer.',art:'birthday-candle'},
- {id:'hay-trail',name:'La piste de foin',text:'Quelques brins racontent une course particulièrement joyeuse.',art:'hay-bale'},
-] as const;
-export const currentCozyEvent = (now:number) => COZY_EVENTS[new Date(now).getUTCMonth()%COZY_EVENTS.length];
-export const currentDiscovery = (now:number) => DISCOVERIES[Math.floor(now/(4*60*60*1000))%DISCOVERIES.length];

diff --git a/src/config/nurseryArt.ts b/src/config/nurseryArt.ts
@@ -36,7 +36,7 @@ const SOURCE_FRAME = 1254;
  * public/ untouched). `width/height` are the texture's real pixels and are independent of the artistic frame: `originX/Y`
  * (normalised) is the centre of the source's visible pixels (alpha > 8) and `scale` is a fraction of the base PNG's pixel size,
  * both expressed in the 1254² `sourceSize` frame, so a derived texture lands exactly where its source did. Texture sizes follow
- * the largest on-screen size measured in the game (framebuffer = CSS pixels; zoom 1.65, front row: baby 68, veil 80, lock 28 px
+ * the largest on-screen size measured in the game (framebuffer = CSS pixels; zoom 1.65, front row: baby 68, veil 80, lock 28 px; the veil grew to 224 for the 2.2 zoom of 4 November 2026
  * for the whole canvas), about 2.4 to 3.5 times that. The baby lies down in its cushion (`angle`, counter-clockwise) as in the
  * approved montage; it is the same sprite and scale for every species.
  */
@@ -45,7 +45,7 @@ export const NURSERY_OVERLAY_ART = {
   progress: {dy: 128, width: 250, height: 44},
   baby: {texture: 'nursery-v2-baby', url: import.meta.env.BASE_URL + 'assets/buildings/nursery-v2-baby-192.png', width: 192, height: 192, sourceSize: SOURCE_FRAME,
     originX: 630 / 1254, originY: 629 / 1254, scale: .245, angle: -78, dy: 2},
-  veil: {texture: 'nursery-v2-veil', url: import.meta.env.BASE_URL + 'assets/buildings/nursery-v2-veil-192.png', width: 192, height: 192, sourceSize: SOURCE_FRAME,
+  veil: {texture: 'nursery-v2-veil', url: import.meta.env.BASE_URL + 'assets/buildings/nursery-v2-veil-224.png', width: 224, height: 224, sourceSize: SOURCE_FRAME,
     originX: 626 / 1254, originY: 636 / 1254, scale: .29, dy: 8},
   lock: {texture: 'nursery-v2-lock', url: import.meta.env.BASE_URL + 'assets/buildings/nursery-v2-lock-96.png', width: 96, height: 96, sourceSize: SOURCE_FRAME,
     originX: 626 / 1254, originY: 630 / 1254, scale: .10, dy: -4},

diff --git a/tests/missions-catalogue-dom.test.ts b/tests/missions-catalogue-dom.test.ts
@@ -41,12 +41,15 @@ const open = () => document.getElementById('open-missions')!.click();
 const catalogueSize = () => catalogueMainMissionIds(state()).length;
 
 describe('browsing all main missions from level seven', () => {
-  it('opens the album and recurring discoveries without spending, and exposes decoration collections',()=>{
-    const {ui,controller}=setup(state());ui.open({kind:'collection'});
+  it('removes the seasonal page and its entry buttons while keeping the album and decoration collections',()=>{
+    const {ui}=setup(state());ui.open({kind:'collection'});
+    const labels=()=>[...panel().querySelectorAll('button')].map(button=>button.textContent);
+    expect(labels()).not.toContain('Rendez-vous et découvertes');
+    expect(labels()).toContain('Album et souvenirs');
+    ui.open({kind:'album'});expect(panel().textContent).toContain('Cartes de voyage');
+    expect(labels()).not.toContain('Rendez-vous et découvertes');
+    ui.open({kind:'missions',tab:'main'});expect(labels()).not.toContain('Rendez-vous');
     const click=(label:string)=>{const b=[...panel().querySelectorAll('button')].find(b=>b.textContent===label);expect(b).toBeDefined();b!.click();};
-    click('Album et souvenirs');expect(panel().textContent).toContain('Cartes de voyage');expect(panel().textContent).toContain('Marrakech');
-    click('Rendez-vous et découvertes');expect(panel().textContent).toContain('Fête des récoltes');
-    const before=controller.getSnapshot().state!.pattes;click('Observer');expect(controller.getSnapshot().state!.cozy!.discoveries).toHaveLength(1);expect(controller.getSnapshot().state!.pattes).toBe(before);
     ui.open({kind:'shop',tab:'decorations'});click('Coin lecture');expect(panel().querySelectorAll('[data-catalog]')).toHaveLength(3);
     ui.open({kind:'arrange'});click('Déplacer un ensemble');expect(panel().textContent).toContain('Confirmer le déplacement');
   });
